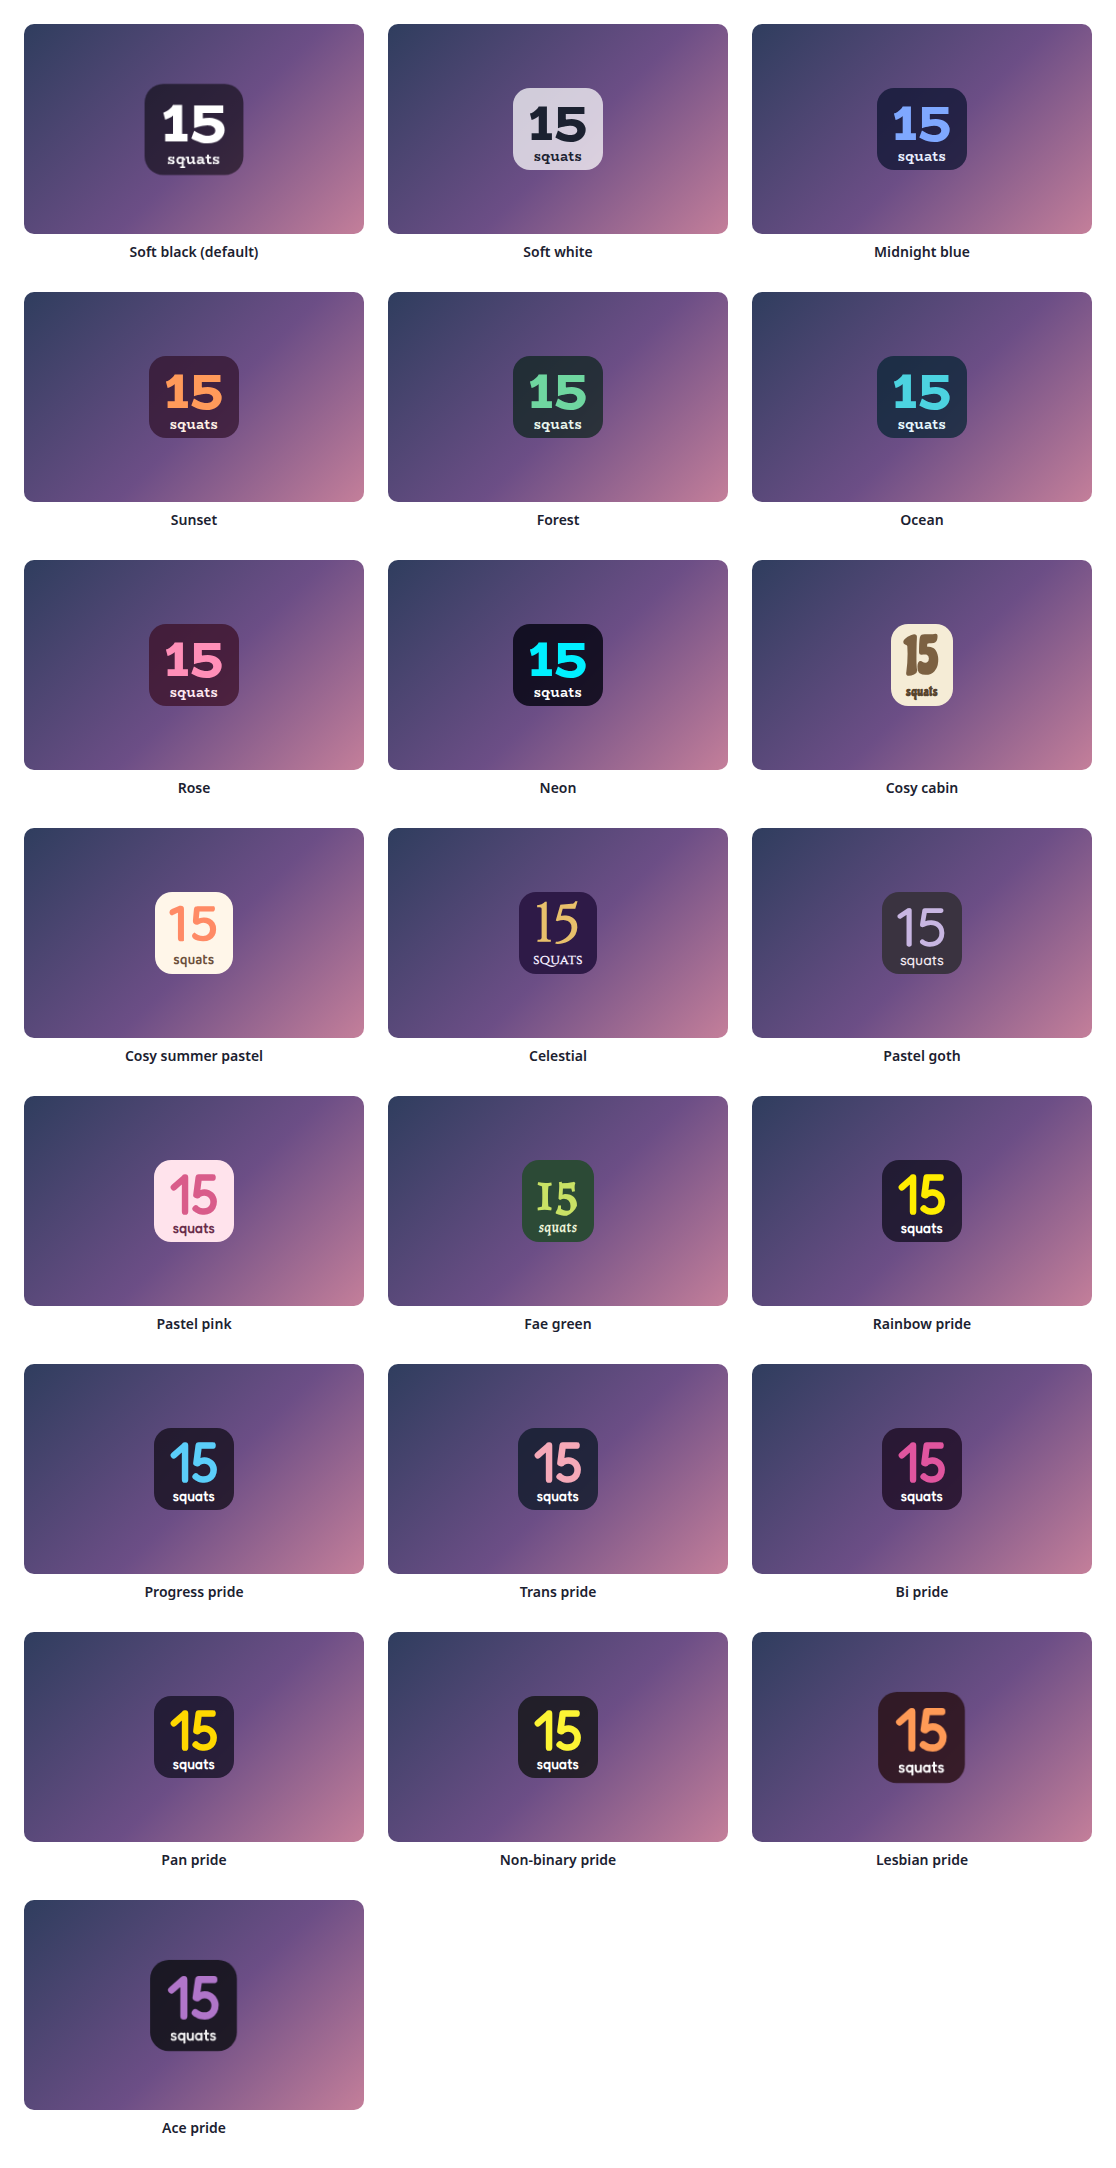
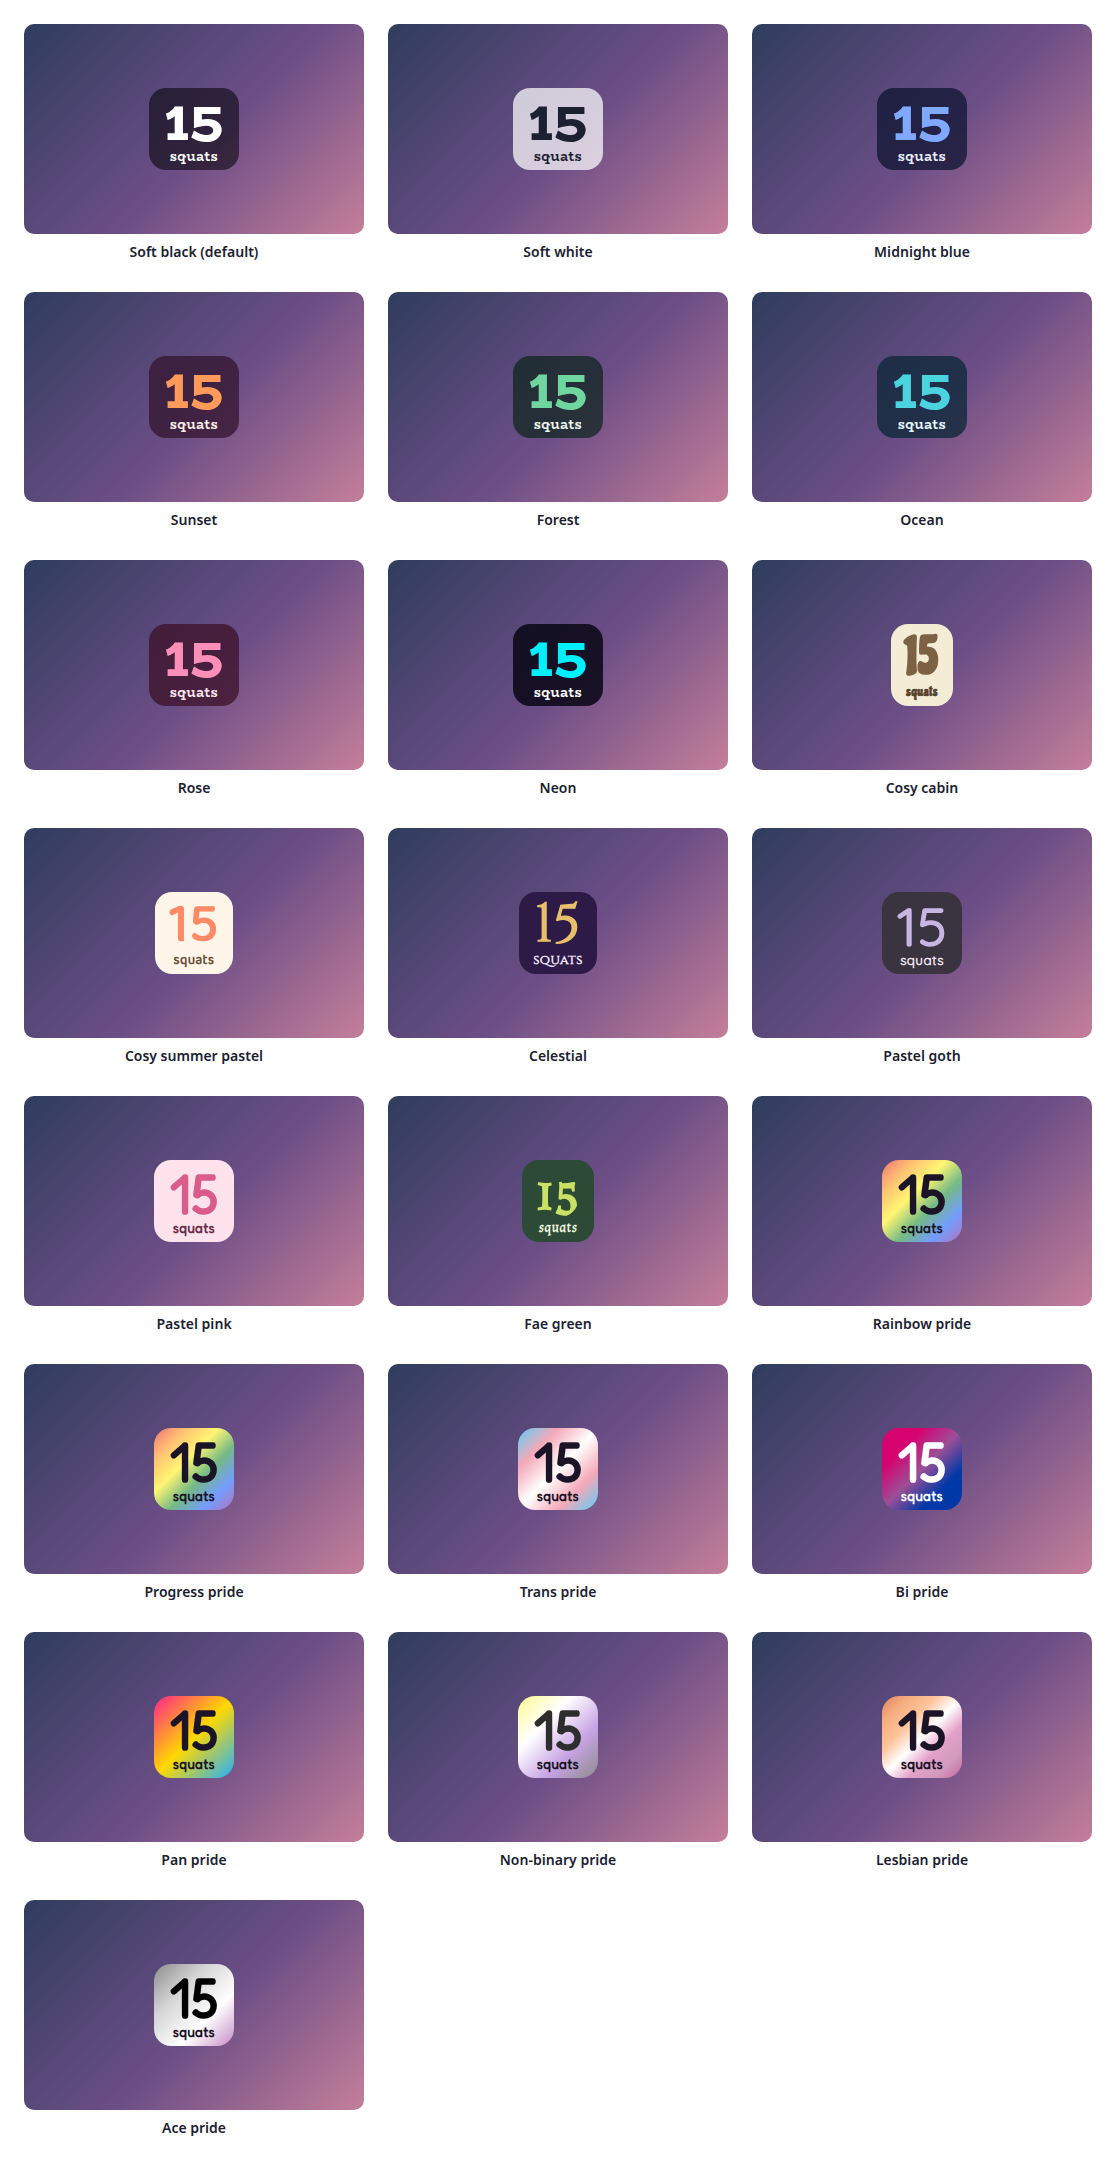
Give the pride presets flag-coloured panels
The pride presets used to be a dark card with only a thin striped bar, so the flag barely showed and the card did not match the palette. Now the card or panel itself wears the flag, as a soft gradient of its stripes, with the text kept readable.

How strong a wash goes over it is worked out, not guessed: the weakest scrim that keeps the text at a contrast of 4.6 or better against every stripe, in white or dark text as the flag needs. Trans, bi and pan need none, and a flag with a black stripe, such as ace and non-binary, gets a lighter wash. A plain colour stays as the fallback, so nothing that only understands a colour is affected, and every other preset, and Custom, is unchanged. The README gallery shows all twenty-two, and the tests check it.

diff --git a/test/test-widget.js b/test/test-widget.js
@@ -364,7 +364,7 @@ function ok(cond, msg) { if (cond) { pass++; console.log("  PASS " + msg); } els
 
   // ---- style presets: the same twenty-two, with the same colours, in every overlay
   console.log("\n[style presets]");
-  const EXPECT = {"glass": {"text": "#FFFFFF", "accent": "#FFFFFF", "panel": "rgba(0, 0, 0, 0.55)", "font": "BioRhyme"}, "frost": {"text": "#1B2130", "accent": "#1B2130", "panel": "rgba(255, 255, 255, 0.72)", "font": "BioRhyme"}, "midnight": {"text": "#E8EEFF", "accent": "#7FA8FF", "panel": "rgba(10, 18, 46, 0.72)", "font": "BioRhyme"}, "sunset": {"text": "#FFF1E6", "accent": "#FF9A5A", "panel": "rgba(48, 18, 42, 0.72)", "font": "BioRhyme"}, "forest": {"text": "#EAF7EE", "accent": "#6FD6A0", "panel": "rgba(12, 36, 28, 0.72)", "font": "BioRhyme"}, "ocean": {"text": "#E6F8FF", "accent": "#4CD3E0", "panel": "rgba(6, 36, 50, 0.72)", "font": "BioRhyme"}, "rose": {"text": "#FFE9F1", "accent": "#FF8FB8", "panel": "rgba(58, 14, 34, 0.72)", "font": "BioRhyme"}, "neon": {"text": "#FFFFFF", "accent": "#00F0FF", "panel": "rgba(4, 4, 16, 0.82)", "font": "BioRhyme"}, "cosycabin": {"text": "#57442E", "accent": "#7C6142", "panel": "#F5ECD6", "font": "Chicle"}, "pastel": {"text": "#6B4F3A", "accent": "#FF8A65", "panel": "#FFF6E9", "font": "Baloo 2"}, "celestial": {"text": "#F3ECFF", "accent": "#E8C06B", "panel": "#2E1A47", "font": "Cinzel"}, "pastelgoth": {"text": "#F2E9F0", "accent": "#C8B6E2", "panel": "#3A3340", "font": "Quicksand"}, "pastelpink": {"text": "#6A2E4B", "accent": "#D95C8A", "panel": "#FFE3EC", "font": "Fredoka"}, "faegreen": {"text": "#EEF5DA", "accent": "#C9E265", "panel": "#2C4A36", "font": "Almendra"}, "pride": {"text": "#FFFFFF", "accent": "#FFEE00", "panel": "rgba(20, 16, 34, 0.8)", "font": "Fredoka"}, "progress": {"text": "#FFFFFF", "accent": "#5BCEFA", "panel": "rgba(22, 16, 30, 0.8)", "font": "Fredoka"}, "trans": {"text": "#FFFFFF", "accent": "#F5A9B8", "panel": "rgba(18, 28, 44, 0.82)", "font": "Fredoka"}, "bi": {"text": "#FFFFFF", "accent": "#E0559F", "panel": "rgba(30, 14, 36, 0.82)", "font": "Fredoka"}, "pan": {"text": "#FFFFFF", "accent": "#FFD800", "panel": "rgba(24, 20, 40, 0.82)", "font": "Fredoka"}, "enby": {"text": "#FFFFFF", "accent": "#FFF433", "panel": "rgba(24, 24, 28, 0.86)", "font": "Fredoka"}, "lesbian": {"text": "#FFFFFF", "accent": "#FF9A56", "panel": "rgba(40, 16, 20, 0.82)", "font": "Fredoka"}, "ace": {"text": "#F1F1F1", "accent": "#B075C9", "panel": "rgba(16, 16, 22, 0.86)", "font": "Fredoka"}};
+  const EXPECT = {"glass": {"text": "#FFFFFF", "accent": "#FFFFFF", "panel": "rgba(0, 0, 0, 0.55)", "font": "BioRhyme"}, "frost": {"text": "#1B2130", "accent": "#1B2130", "panel": "rgba(255, 255, 255, 0.72)", "font": "BioRhyme"}, "midnight": {"text": "#E8EEFF", "accent": "#7FA8FF", "panel": "rgba(10, 18, 46, 0.72)", "font": "BioRhyme"}, "sunset": {"text": "#FFF1E6", "accent": "#FF9A5A", "panel": "rgba(48, 18, 42, 0.72)", "font": "BioRhyme"}, "forest": {"text": "#EAF7EE", "accent": "#6FD6A0", "panel": "rgba(12, 36, 28, 0.72)", "font": "BioRhyme"}, "ocean": {"text": "#E6F8FF", "accent": "#4CD3E0", "panel": "rgba(6, 36, 50, 0.72)", "font": "BioRhyme"}, "rose": {"text": "#FFE9F1", "accent": "#FF8FB8", "panel": "rgba(58, 14, 34, 0.72)", "font": "BioRhyme"}, "neon": {"text": "#FFFFFF", "accent": "#00F0FF", "panel": "rgba(4, 4, 16, 0.82)", "font": "BioRhyme"}, "cosycabin": {"text": "#57442E", "accent": "#7C6142", "panel": "#F5ECD6", "font": "Chicle"}, "pastel": {"text": "#6B4F3A", "accent": "#FF8A65", "panel": "#FFF6E9", "font": "Baloo 2"}, "celestial": {"text": "#F3ECFF", "accent": "#E8C06B", "panel": "#2E1A47", "font": "Cinzel"}, "pastelgoth": {"text": "#F2E9F0", "accent": "#C8B6E2", "panel": "#3A3340", "font": "Quicksand"}, "pastelpink": {"text": "#6A2E4B", "accent": "#D95C8A", "panel": "#FFE3EC", "font": "Fredoka"}, "faegreen": {"text": "#EEF5DA", "accent": "#C9E265", "panel": "#2C4A36", "font": "Almendra"}, "pride": {"text": "#1A1426", "accent": "#1A1426", "panel": "rgba(194, 168, 154, 0.9)", "font": "Fredoka"}, "progress": {"text": "#1A1426", "accent": "#1A1426", "panel": "rgba(194, 168, 154, 0.9)", "font": "Fredoka"}, "trans": {"text": "#1A1426", "accent": "#1A1426", "panel": "rgba(185, 201, 225, 0.9)", "font": "Fredoka"}, "bi": {"text": "#FFFFFF", "accent": "#FFFFFF", "panel": "rgba(117, 39, 142, 0.9)", "font": "Fredoka"}, "pan": {"text": "#1A1426", "accent": "#1A1426", "panel": "rgba(181, 142, 132, 0.9)", "font": "Fredoka"}, "enby": {"text": "#1A1426", "accent": "#2D2D2D", "panel": "rgba(212, 202, 192, 0.9)", "font": "Fredoka"}, "lesbian": {"text": "#1A1426", "accent": "#1A1426", "panel": "rgba(232, 167, 169, 0.9)", "font": "Fredoka"}, "ace": {"text": "#1A1426", "accent": "#000000", "panel": "rgba(202, 187, 202, 0.9)", "font": "Fredoka"}};
   const LABELS = {"glass": "Soft black (default)", "frost": "Soft white", "midnight": "Midnight blue", "sunset": "Sunset", "forest": "Forest", "ocean": "Ocean", "rose": "Rose", "neon": "Neon", "cosycabin": "Cosy cabin", "pastel": "Cosy summer pastel", "celestial": "Celestial", "pastelgoth": "Pastel goth", "pastelpink": "Pastel pink", "faegreen": "Fae green", "pride": "Rainbow pride", "progress": "Progress pride", "trans": "Trans pride", "bi": "Bi pride", "pan": "Pan pride", "enby": "Non-binary pride", "lesbian": "Lesbian pride", "ace": "Ace pride", "custom": "Custom (use the colours below)"};
   ok(JSON.stringify(Object.keys(fields.themePreset.options)) === JSON.stringify(Object.keys(LABELS)) && Object.keys(LABELS).length === 23, "the dropdown offers the twenty-two shared presets and Custom, in the shared order");
   ok(Object.keys(LABELS).every(k => fields.themePreset.options[k] === LABELS[k]), "with the shared labels");
@@ -375,6 +375,13 @@ function ok(cond, msg) { if (cond) { pass++; console.log("  PASS " + msg); } els
     ok(S2["--c-count"] === EXPECT[key].accent && S2["--c-label"] === EXPECT[key].text && S2["--accent"] === EXPECT[key].panel && S2["--font"].indexOf('"' + EXPECT[key].font + '"') !== -1,
       key + ": panel, text, accent and font match the shared table (" + S2["--c-count"] + ", " + S2["--accent"] + ")");
   }
+  console.log("\n[pride flags behind the card]");
+  load({ themePreset: "trans" }); await wait(5);
+  ok(elements["squat-app"].style["--box-img"] === "linear-gradient(135deg, #5BCEFA, #F5A9B8, #FFFFFF, #F5A9B8, #5BCEFA)", "the trans preset puts its flag behind the card (" + elements["squat-app"].style["--box-img"] + ")");
+  load({ themePreset: "ace" }); await wait(5);
+  ok(/^linear-gradient\(rgba\(255, 255, 255, 0\.\d+\), rgba\(255, 255, 255, 0\.\d+\)\), linear-gradient\(135deg, #000000, #A3A3A3, #FFFFFF, #800080\)$/.test(elements["squat-app"].style["--box-img"]), "a flag with a black stripe gets a light wash over it, so the dark text stays readable");
+  load({ themePreset: "glass" }); await wait(5);
+  ok(elements["squat-app"].style["--box-img"] === "none", "and every other preset leaves the card plain");
   console.log("\n=== " + pass + " passed, " + fail + " failed ===");
   process.exit(fail ? 1 : 0);
 })();

diff --git a/widget/widget.js b/widget/widget.js
@@ -38,14 +38,14 @@
     pastelgoth: { panel: "#3A3340", strong: "#3A3340", text: "#F2E9F0", accent: "#C8B6E2", font: "Quicksand" },
     pastelpink: { panel: "#FFE3EC", strong: "#FFE3EC", text: "#6A2E4B", accent: "#D95C8A", font: "Fredoka" },
     faegreen: { panel: "#2C4A36", strong: "#2C4A36", text: "#EEF5DA", accent: "#C9E265", font: "Almendra" },
-    pride: { panel: "rgba(20, 16, 34, 0.8)", strong: "rgba(20, 16, 34, 0.92)", text: "#FFFFFF", accent: "#FFEE00", font: "Fredoka" },
-    progress: { panel: "rgba(22, 16, 30, 0.8)", strong: "rgba(22, 16, 30, 0.92)", text: "#FFFFFF", accent: "#5BCEFA", font: "Fredoka" },
-    trans: { panel: "rgba(18, 28, 44, 0.82)", strong: "rgba(18, 28, 44, 0.92)", text: "#FFFFFF", accent: "#F5A9B8", font: "Fredoka" },
-    bi: { panel: "rgba(30, 14, 36, 0.82)", strong: "rgba(30, 14, 36, 0.92)", text: "#FFFFFF", accent: "#E0559F", font: "Fredoka" },
-    pan: { panel: "rgba(24, 20, 40, 0.82)", strong: "rgba(24, 20, 40, 0.92)", text: "#FFFFFF", accent: "#FFD800", font: "Fredoka" },
-    enby: { panel: "rgba(24, 24, 28, 0.86)", strong: "rgba(24, 24, 28, 0.94)", text: "#FFFFFF", accent: "#FFF433", font: "Fredoka" },
-    lesbian: { panel: "rgba(40, 16, 20, 0.82)", strong: "rgba(40, 16, 20, 0.92)", text: "#FFFFFF", accent: "#FF9A56", font: "Fredoka" },
-    ace: { panel: "rgba(16, 16, 22, 0.86)", strong: "rgba(16, 16, 22, 0.94)", text: "#F1F1F1", accent: "#B075C9", font: "Fredoka" }
+    pride: { panel: "rgba(194, 168, 154, 0.9)", strong: "rgba(194, 168, 154, 0.96)", text: "#1A1426", accent: "#1A1426", font: "Fredoka", bgimg: "linear-gradient(rgba(255, 255, 255, 0.45), rgba(255, 255, 255, 0.45)), linear-gradient(135deg, #E50000, #FF8D00, #FFEE00, #028121, #004CFF, #770088)" },
+    progress: { panel: "rgba(194, 168, 154, 0.9)", strong: "rgba(194, 168, 154, 0.96)", text: "#1A1426", accent: "#1A1426", font: "Fredoka", bgimg: "linear-gradient(rgba(255, 255, 255, 0.45), rgba(255, 255, 255, 0.45)), linear-gradient(135deg, #E50000, #FF8D00, #FFEE00, #028121, #004CFF, #770088)" },
+    trans: { panel: "rgba(185, 201, 225, 0.9)", strong: "rgba(185, 201, 225, 0.96)", text: "#1A1426", accent: "#1A1426", font: "Fredoka", bgimg: "linear-gradient(135deg, #5BCEFA, #F5A9B8, #FFFFFF, #F5A9B8, #5BCEFA)" },
+    bi: { panel: "rgba(117, 39, 142, 0.9)", strong: "rgba(117, 39, 142, 0.96)", text: "#FFFFFF", accent: "#FFFFFF", font: "Fredoka", bgimg: "linear-gradient(135deg, #D60270, #D60270, #9B4F96, #0038A8, #0038A8)" },
+    pan: { panel: "rgba(181, 142, 132, 0.9)", strong: "rgba(181, 142, 132, 0.96)", text: "#1A1426", accent: "#1A1426", font: "Fredoka", bgimg: "linear-gradient(135deg, #FF218C, #FFD800, #21B1FF)" },
+    enby: { panel: "rgba(212, 202, 192, 0.9)", strong: "rgba(212, 202, 192, 0.96)", text: "#1A1426", accent: "#2D2D2D", font: "Fredoka", bgimg: "linear-gradient(rgba(255, 255, 255, 0.45), rgba(255, 255, 255, 0.45)), linear-gradient(135deg, #FFF433, #FFFFFF, #9B59D0, #2D2D2D)" },
+    lesbian: { panel: "rgba(232, 167, 169, 0.9)", strong: "rgba(232, 167, 169, 0.96)", text: "#1A1426", accent: "#1A1426", font: "Fredoka", bgimg: "linear-gradient(rgba(255, 255, 255, 0.40), rgba(255, 255, 255, 0.40)), linear-gradient(135deg, #D52D00, #EF7627, #FF9A56, #FFFFFF, #D162A4, #B55690, #A30262)" },
+    ace: { panel: "rgba(202, 187, 202, 0.9)", strong: "rgba(202, 187, 202, 0.96)", text: "#1A1426", accent: "#000000", font: "Fredoka", bgimg: "linear-gradient(rgba(255, 255, 255, 0.55), rgba(255, 255, 255, 0.55)), linear-gradient(135deg, #000000, #A3A3A3, #FFFFFF, #800080)" }
   };
   var BASE = PRESETS.glass;
 
@@ -184,7 +184,8 @@
     var p = PRESETS[cfg.themePreset] || BASE;
     return {
       bg: p.text, text: p.text, accent: p.panel, font: p.font,
-      count: p.accent, label: p.text, border: p.accent, lock: p.accent, float: p.accent, floatBg: p.strong
+      count: p.accent, label: p.text, border: p.accent, lock: p.accent, float: p.accent, floatBg: p.strong,
+      bgimg: p.bgimg || ""
     };
   }
 
@@ -194,6 +195,7 @@
     root.style.setProperty("--bg", t.bg);
     root.style.setProperty("--text", t.text);
     root.style.setProperty("--accent", t.accent);
+    root.style.setProperty("--box-img", t.bgimg || "none");
     root.style.setProperty("--font", '"' + t.font + '", "Baloo 2", "Segoe UI", sans-serif');
     root.style.setProperty("--c-count", t.count);
     root.style.setProperty("--c-label", t.label);

diff --git a/widget/widget.css b/widget/widget.css
@@ -80,6 +80,7 @@
   gap: calc(var(--gap) * 1cqmin);
   padding: calc(var(--pad-v) * 1cqmin) calc(var(--pad-h) * 1cqmin);
   background: var(--accent);
+  background-image: var(--box-img, none);
   color: var(--c-count);
   border: var(--border-w) solid var(--c-border);
   border-radius: calc(var(--radius-pct) * 1cqmin);

diff --git a/README.md b/README.md
@@ -52,16 +52,16 @@ One setting picks the look. The same twenty-two presets, with the same colours, 
 | Pastel goth | Charcoal and lilac, in Quicksand. |
 | Pastel pink | Soft blush pink with rose, in Fredoka. |
 | Fae green | Mossy green with a firefly lime accent, in Almendra. |
-| Rainbow pride | Dark plum with the six rainbow stripes, in Fredoka. |
-| Progress pride | The six rainbow stripes with the chevron's pink and light blue. |
-| Trans pride | Dark blue with light blue, pink and white. |
-| Bi pride | Dark violet with magenta, purple and blue. |
-| Pan pride | Dark indigo with pink, yellow and light blue. |
-| Non-binary pride | Charcoal with yellow, white, purple and black. |
-| Lesbian pride | Dark wine with the orange to pink stripes. |
-| Ace pride | Near black with grey, white and purple. |
+| Rainbow pride | A soft wash of the six rainbow stripes, in Fredoka. |
+| Progress pride | The same stripes, with the chevron's pink and light blue in the wheel and poll colours. |
+| Trans pride | Light blue, pink and white. |
+| Bi pride | Magenta, purple and blue, with white text. |
+| Pan pride | Pink, yellow and light blue. |
+| Non-binary pride | Yellow, white, purple and black, softened so the text stays readable. |
+| Lesbian pride | The orange to pink stripes. |
+| Ace pride | Black, grey, white and purple, softened so the text stays readable. |
 
-The last eight are pride presets, built from the stripes of the rainbow, progress, trans, bi, pan, non-binary, lesbian and ace flags. A bar is striped like the flag where an overlay has one, and the slices of a wheel and the options of a poll take their colours from the stripes in order. The colours follow each flag's published design, and the progress flag shows its six rainbow stripes, because its chevron is a separate shape.
+The last eight are pride presets, built from the stripes of the rainbow, progress, trans, bi, pan, non-binary, lesbian and ace flags. The card or panel wears the flag as its background, with only as much of a wash over it as the text needs to stay readable, so flags with a black stripe come out softer. A bar is striped like the flag where an overlay has one, and the slices of a wheel and the options of a poll take their colours from the stripes in order. The colours follow each flag's published design, and the progress flag shows its six rainbow stripes, because its chevron is a separate shape.
 
 Choose **Custom** to use the colour pickers and font instead. They are ignored while a preset is chosen.
 
